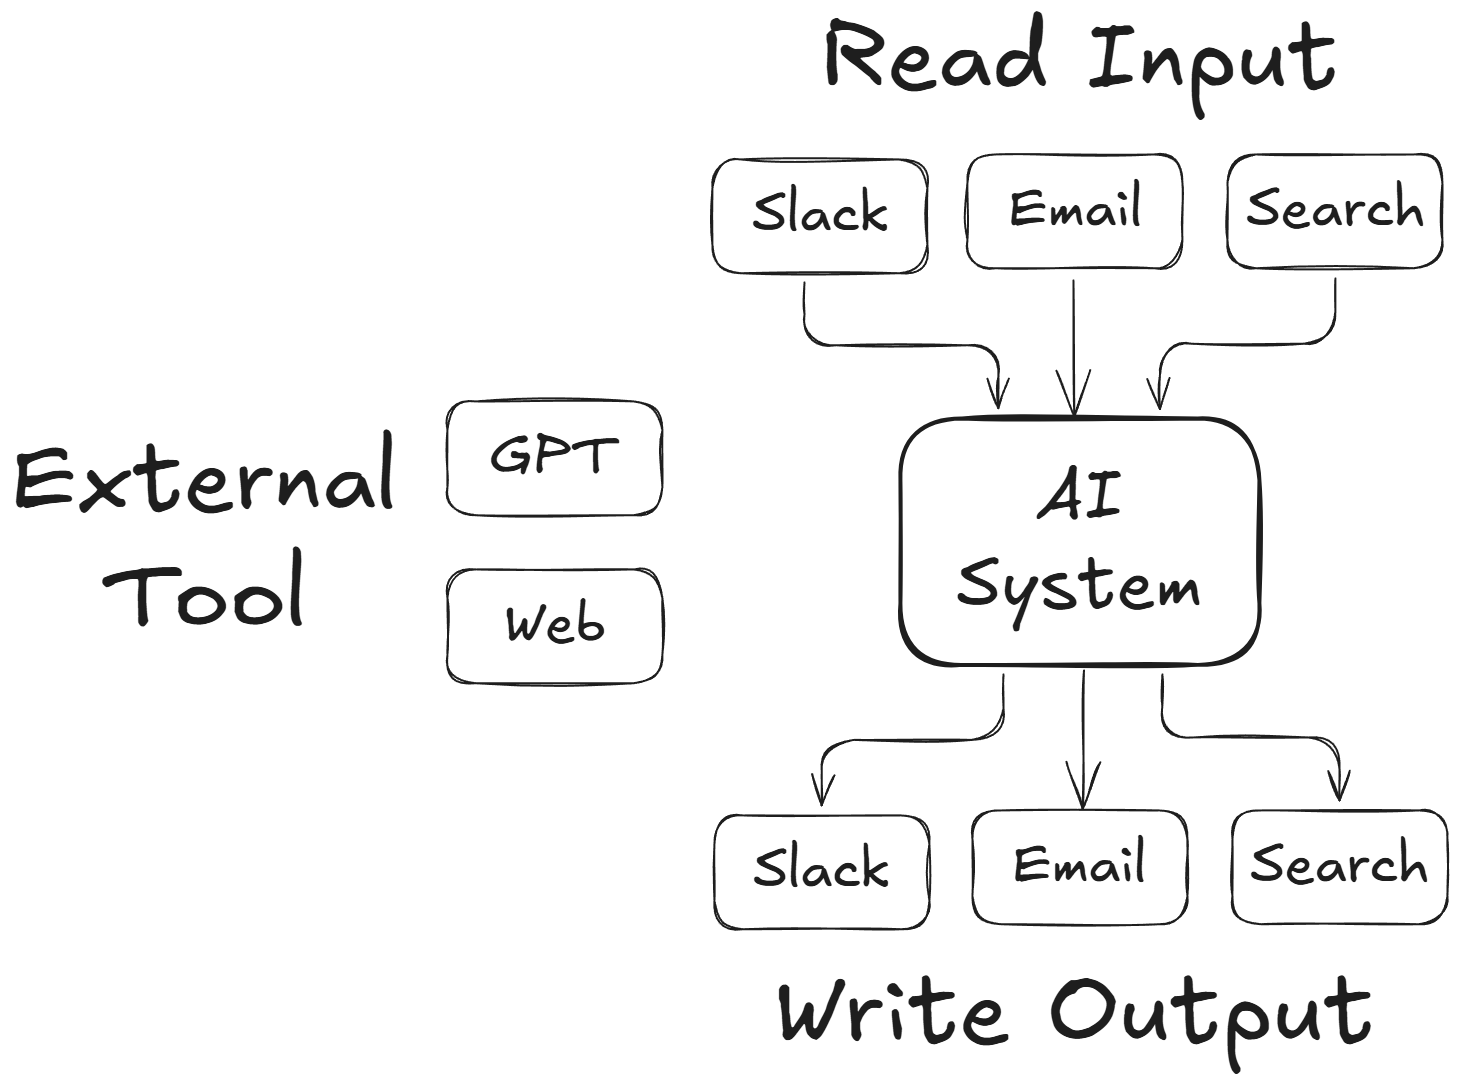
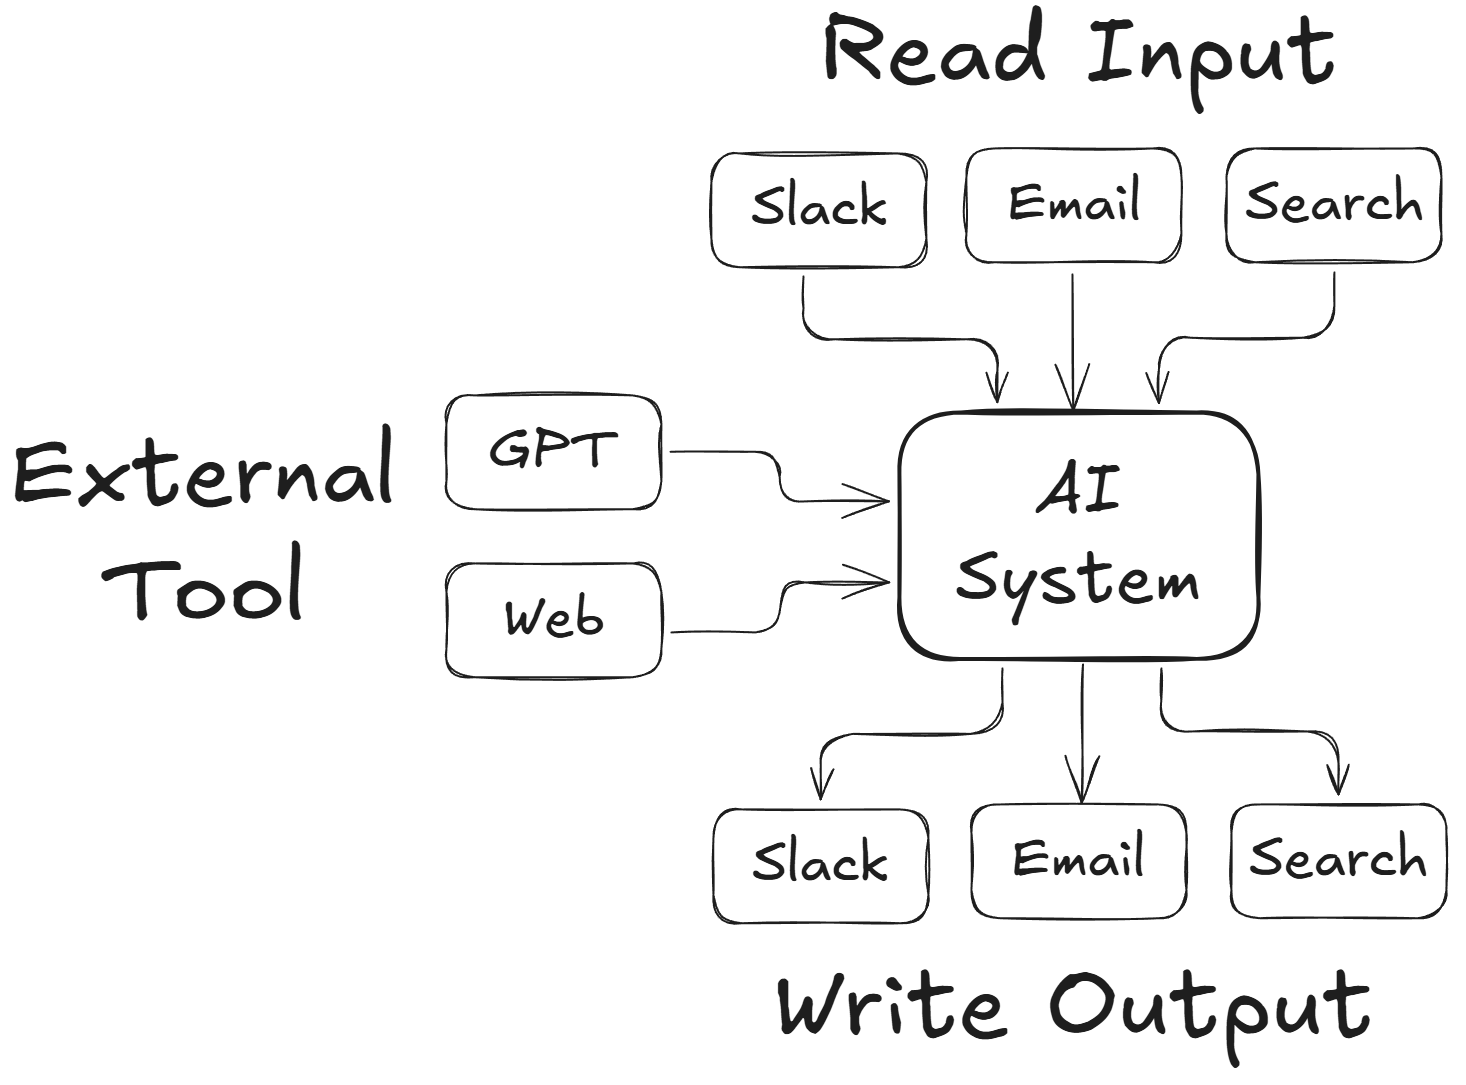
update utility image

diff --git a/docs/guide.md b/docs/guide.md
@@ -28,14 +28,14 @@ These system designs should be a collaboration between humans and AI assistants:
 
 1. **Project Requirements**: Clearify the requirements for your project.
 
-2. **Utility Functions**: Although the AI system is the decision-maker, it relies on **external utility functions**:
+2. **Utility Functions**: AI system is the decision-maker and relies on *external utility functions* to:
 
    <div align="center"><img src="https://github.com/the-pocket/PocketFlow/raw/main/assets/utility.png?raw=true" width="400"/></div>
 
-   - Reading inputs (e.g., retrieving Slack messages, reading emails)
-   - Writing outputs (e.g., generating reports, sending emails)
-   - External tool usage (e.g., calling LLMs, searching the web)
-   - **LLM-based tasks** (e.g., summarizing text, analyzing sentiment) are **not** utility functions. Instead, they are *internal core functions* within the AI system—designed in step 3—and are built on top of the utility functions.
+   - Read inputs (e.g., retrieving Slack messages, reading emails)
+   - Write outputs (e.g., generating reports, sending emails)
+   - Use external tools (e.g., calling LLMs, searching the web)
+   - In contrast, *LLM-based tasks* (e.g., summarizing text, analyzing sentiment) are **NOT** utility functions. Instead, they are *internal core functions* within the AI system—designed in step 3—and are built on top of the utility functions.
    -  > **Start small!** Only include the most important ones to begin with!
       {: .best-practice }
 
